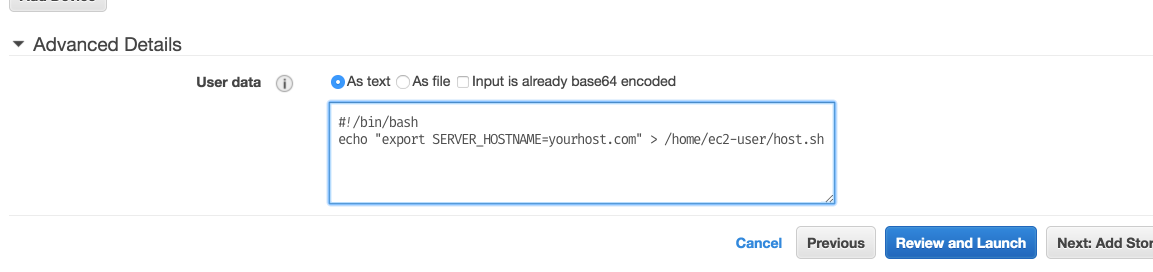
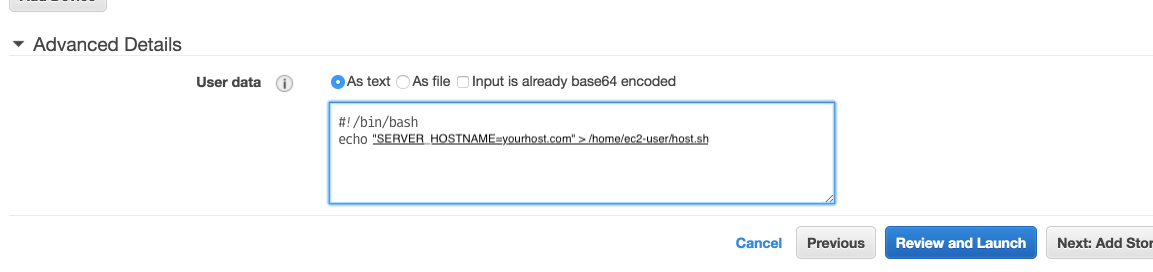
fix error in docs relating to setting hostname

Changed region(s): [[0.3122, 0.4706, 0.7181, 0.5588]]

diff --git a/README.md b/README.md
@@ -48,24 +48,27 @@ When launching your AMI put the following in as `USERDATA` replacing `{{yourhost
 
 ```
 #!/bin/bash
-echo "export SERVER_HOSTNAME=yourhost.com" > /home/ec2-user/host.sh
+echo "SERVER_HOSTNAME=yourhost.com" > /home/ec2-user/host.sh
 ```
 
 It will look like this:
 
+![Image of Default Wordpress Site](./ami-userdata2.png)
+
+Close up:
+
 ![Image of Default Wordpress Site](./ami-userdata.png)
 
-
-This will set the host name in your instance.
+Setting `USERDATA` will set the host name in your instance. If you do not set the `USERDATA`. we will use the instance host name set by AWS.
 
 ```
 #!/bin/bash
-echo "export SERVER_HOSTNAME=yourhost.com" > /home/ec2-user/host.sh
+echo "SERVER_HOSTNAME=yourhost.com" > /home/ec2-user/host.sh
 ```
 
-We require you use the a domain (`yourhost.com` or `www.yourhost.com`). This will ensure that everything is correctly auto configured on your behalf. For example, if you set `www.yourhost.com` NGINX will set it a server as `www.yourhost.com`.
+We require you use the a domain (`yourhost.com` or `www.yourhost.com`). This will ensure that everything is correctly auto configured on your behalf. For example, if you set `www.yourhost.com` NGINX will set it a server as `www.yourhost.com`. The domain `yourhost.com` is a placeholder, an example, Do not blindly use `yourhost.com`!! It seems obvious, but not to everyone.
 
-If you decide not to set DNS via `USERDATA` go to **Step 3**.
+Remember, if you decide not to set DNS via `USERDATA` go to **Step 3**. You will need to manually configure SSL. We will install self-signed SSL certs as a temporary solution until you can configure everything according to the process outlined in Step 3.
 
 ### IMPORTANT
 Make sure your IP (x.x.x.x) points to a DNS A Record uses the domain you set via USERDATA ( `yourhost.com` or `www.yourhost.com` ).
@@ -96,6 +99,7 @@ If you want to log into the `wp-admin` console, you need to get your password. T
 
 You can also get it from AWS console by looking at the `Get System Logs` and scrolling for `WORDPRESS_ADMIN_PASSWORD`. You can also SSH into your instance and get the creds.
 
+
 # Step 3: Manual Setup of SSL
 Did you setup DNS via `USERDATA`? No, then you need to set your domain name and get your SSL setup. If you do not set your host via AMI `USERDATA` we will install self-signed SSL certificates. This will be enough to get you up and running. The following section describes how you can manually set your server host and install SSL certificates.
 
@@ -111,7 +115,7 @@ You will certainly want to change these.
 To keep things organized we default to using  [`letsencrypt`](https://letsencrypt.org/) for SSL certificates/keys, paths and naming conventions. Even if you are using your own certs, follow the naming conventions detailed below.
 
 In keeping with the `letsencrypt` conventions make sure your certs are using the same naming scheme:
-```
+```bash
 /etc/letsencrypt/live/${NGINX_SERVER_NAME}/;
 ├── server
 │   ├── cert.pem
@@ -128,38 +132,55 @@ ssl_trusted_certificate /etc/letsencrypt/live/{{NGINX_SERVER_NAME}}/chain.pem;
 Even if you are not using letsencrypt simple repurpose the path above.
 
 ## Using `certbot` for `letsencrypt` SSL certs
-On your **host**, not in the Docker image,  we pre-installed `certbot`. The install process looks something like this if you need to rerun it yourself:
+On your **host**, not in the Docker image,  we pre-installed the `certbot` Docker image.
 
-If your run into an errors with certbot, trying running these commands:
+First, make sure your `NGINX` is not running. You need to do this because `cerbot` needs to have post 80 and 443 open. If `NGINX` is running, there will be a port conflict. This will gracefully close down everything:
+
 ```bash
-rm -rf ~/.local/share/letsencrypt
-rm -rf /opt/eff.org/*
-# Install for Lets Encrypt
-mkdir ~/src
-cd ~/src || exit
-wget http://www.dest-unreach.org/socat/download/socat-1.7.3.0.tar.gz
-tar -xf socat-1.7.3.0.tar.gz
-cd socat-1.7.3.0 || exit
-./configure --prefix=$HOME
-make
-make install
-
-curl https://get.acme.sh | sh
-
-certbot-auto certonly -n --debug --agree-tos --standalone -d $SERVER_HOSTNAME > /dev/null
+/usr/local/bin/docker-compose -f /home/ec2-user/wordpress.yml down --remove-orphans
 ```
 
-## Mount your certs
-If you when down the path of using USERDATA, this has been done for you. For reference, we mount your certs directory on the host to: `/etc/letsencrypt/live/<yourdomain>`. If you need to set SSL certs manually, then read on.
+Next, provision your SSL certificates:
+
+```bash
+docker pull certbot/certbot
+
+docker run -it --rm -p 80:80 -p 443:443 --name certbot -v "/etc/letsencrypt:/etc/letsencrypt" -v "/var/lib/letsencrypt:/var/lib/letsencrypt" certbot/certbot certonly -n --debug --agree-tos --email user@gmail.com --standalone -d ${SERVER_HOSTNAME}
+```
+
+Then start up all your services again:
+```bash
+/usr/local/bin/docker-compose -f /home/ec2-user/wordpress.yml up -d --remove-orphans
+```
+
+
+## Automate `letsencrypt` SSL renewals
+You will need to setup a renewal process. The docs say check twice a day for changes. Lets add the renewal process to cron:
+```bash
+cat << EOF > /tmp/crontab.conf
+55 4,16 * * * /opt/eff.org/certbot/venv/local/bin/pip install --upgrade certbot
+59 4,16 * * * certbot-auto certonly -n --debug --agree-tos --pre-hook="docker stop nginx" --post-hook="docker start nginx" --standalone -d *.yourhost.com > /dev/null
+EOF
+```
+Lastly, add everything to cron via `cat /tmp/crontab.conf | crontab - && crontab -l`
+
+We have also installed ACME.sh (https://github.com/Neilpang/acme.sh). If you prefer, you can use this as your client for Lets Encrypt!
+
+## Do you already have SSL certs?
+For reference, we mount SSL certs to a directory on the host: `/etc/letsencrypt/live/<yourdomain>`.
+
+If you need to set SSL certs manually because you have them already via some other third party, then read on.
 
 ### Edit `wordpress.yml`
-This assumes you already have the certs on your host here `/etc/letsencrypt/live/<yourdomain>`.
+First, make sure you place your certs on the host in this path: `/etc/letsencrypt/live/<yourdomain>`.
 
-Next, we want to add the paths to the Docker compose file under the `nginx` block. Here is the where you can find the file: `/home/ec2-user/wordpress.yml`
+Next, we want to add the path to your certs into the Docker compose file. In the compose yml file see the SSL certs under the `nginx` block.
 
-You will already see `- wordpress_data:/usr/share/nginx/html` present. You want to add the following into the compose file. Remember to put use the actual domain you used with certbot:
+Here is the where you can find the file on the host: `/home/ec2-user/wordpress.yml`
 
-```docker
+You will already see `- wordpress_data:/usr/share/nginx/html` present. You want to add the following into the compose file. Remember to put use the actual domain you want to use in place of `<yourdomain>`:
+
+```bash
 volumes:
   - wordpress_data:/usr/share/nginx/html
   - /etc/letsencrypt/live/<yourdomain>/fullchain.pem:/etc/letsencrypt/live/<yourdomain>/fullchain.pem
@@ -172,22 +193,28 @@ If you do not have a `chain.pem`, simply copy the `fullchain.pem` over.
 ```bash
 cp /etc/letsencrypt/live/<yourdomain>/fullchain.pem  /etc/letsencrypt/live/<yourdomain>/chain.pem
 ```
+After making the change to the compose file, save it. Then run this command to start everything:
 
-## Automate SSL renewals
-You will need to setup a renewal process. The docs say check twice a day for changes. Lets add the renewal process to cron:
 ```bash
-cat << EOF > /tmp/crontab.conf
-55 4,16 * * * /opt/eff.org/certbot/venv/local/bin/pip install --upgrade certbot
-59 4,16 * * * certbot-auto certonly -n --debug --agree-tos --pre-hook="docker stop nginx" --post-hook="docker start nginx" --standalone -d *.yourhost.com > /dev/null
-EOF
+/usr/local/bin/docker-compose -f /home/ec2-user/wordpress.yml up -d --remove-orphans
 ```
-Lastly, add everything to cron via `cat /tmp/crontab.conf | crontab - && crontab -l`
 
-We have also installed ACME.sh (https://github.com/Neilpang/acme.sh). If you prefer, you can use this as your client for Lets Encrypt!
 
 # Docker Configuration
 
-## Configuring your Docker container
+
+## Starting and Stopping Your Docker Services
+
+If you want to `start` all your services, the command is:
+```bash
+/usr/local/bin/docker-compose -f /home/ec2-user/wordpress.yml up -d --remove-orphans
+```
+If you want to `stop` all your services, the command is:
+```bash
+/usr/local/bin/docker-compose -f /home/ec2-user/wordpress.yml down --remove-orphans
+```
+
+## Advanced Configuration
 When you SSH into your server go to your `HOME` directory. In there you will see a `wordpress.env` file that was created for you. This is used by your Docker containers to initialize various container settings.
 
 Here is what is resident in the file:
@@ -237,7 +264,7 @@ The default username is set via `WORDPRESS_ADMIN` and is `admin`.
 
 As always, keep your ENV file safe and secure.
 
-### Advanced configuration
+### Only change if you know what you are doing
 Don't change any of the defaults for these unless you are a pro and understand what you are doing:
 
 * `NGINX_DOCROOT` sets the default www directory. The containers default to `/usr/share/nginx/html` so it is best left unchanged.
@@ -292,9 +319,17 @@ You will likely want to dispatch logs to a service like Amazon Cloudwatch. This 
 | latest | ami-deb3eea1 | 1.0.2 | 3.8 |
 | latest | ami-deb3eea1 | 1.0.1 | 3.8 |
 
+
+# Bad Gateway
+
+If you happen to see a bad gateway error, hard reload your browser. It is possible you have something in your browser cache that is causing this:
+
+![Image of Bad Gateway](./bad-Gateway.png)
+
 # Issues
 
 If you have any problems with or questions about this image, please contact us through a GitHub issue.
+
 
 # Contributing
 
